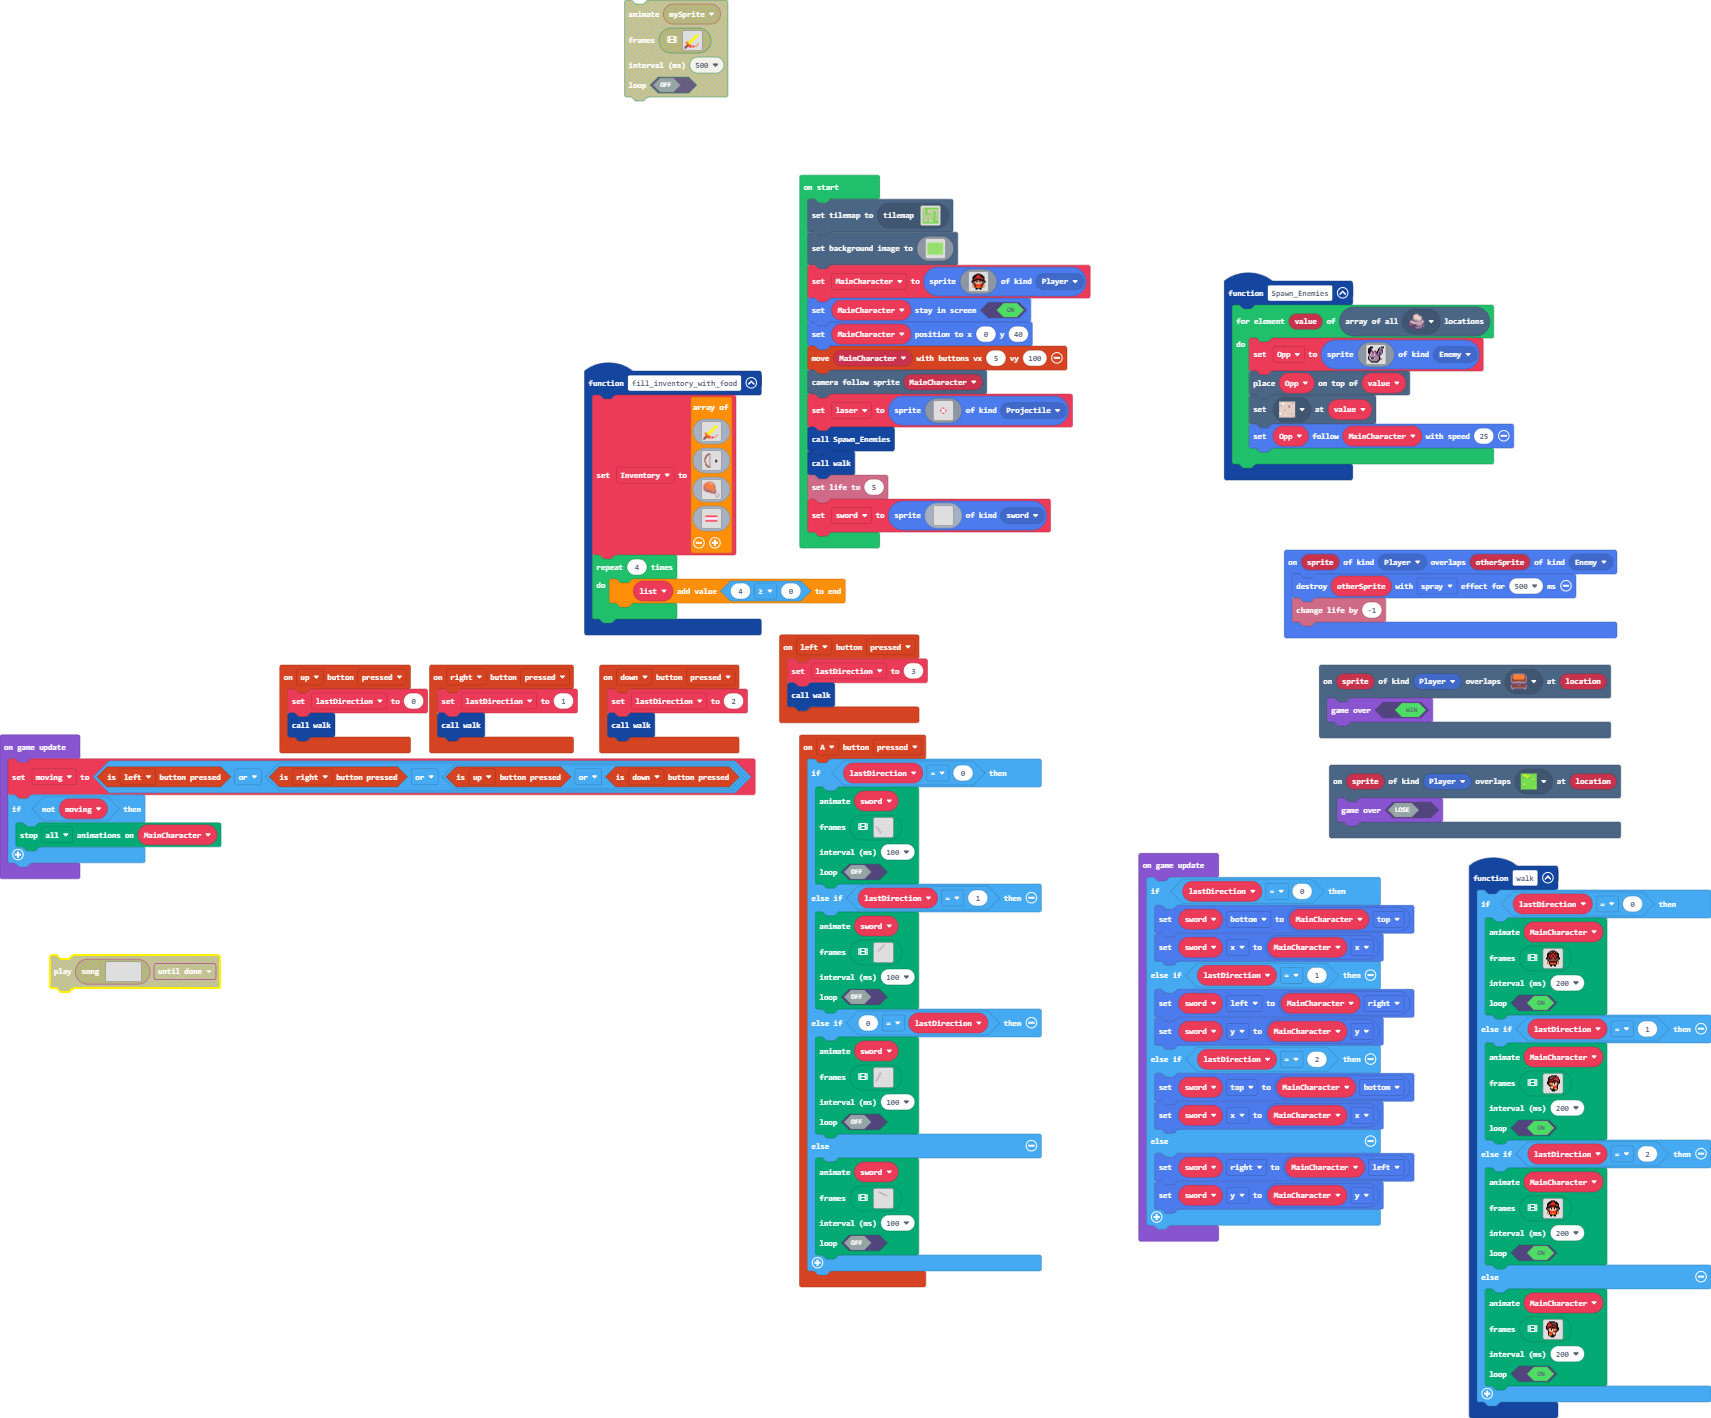
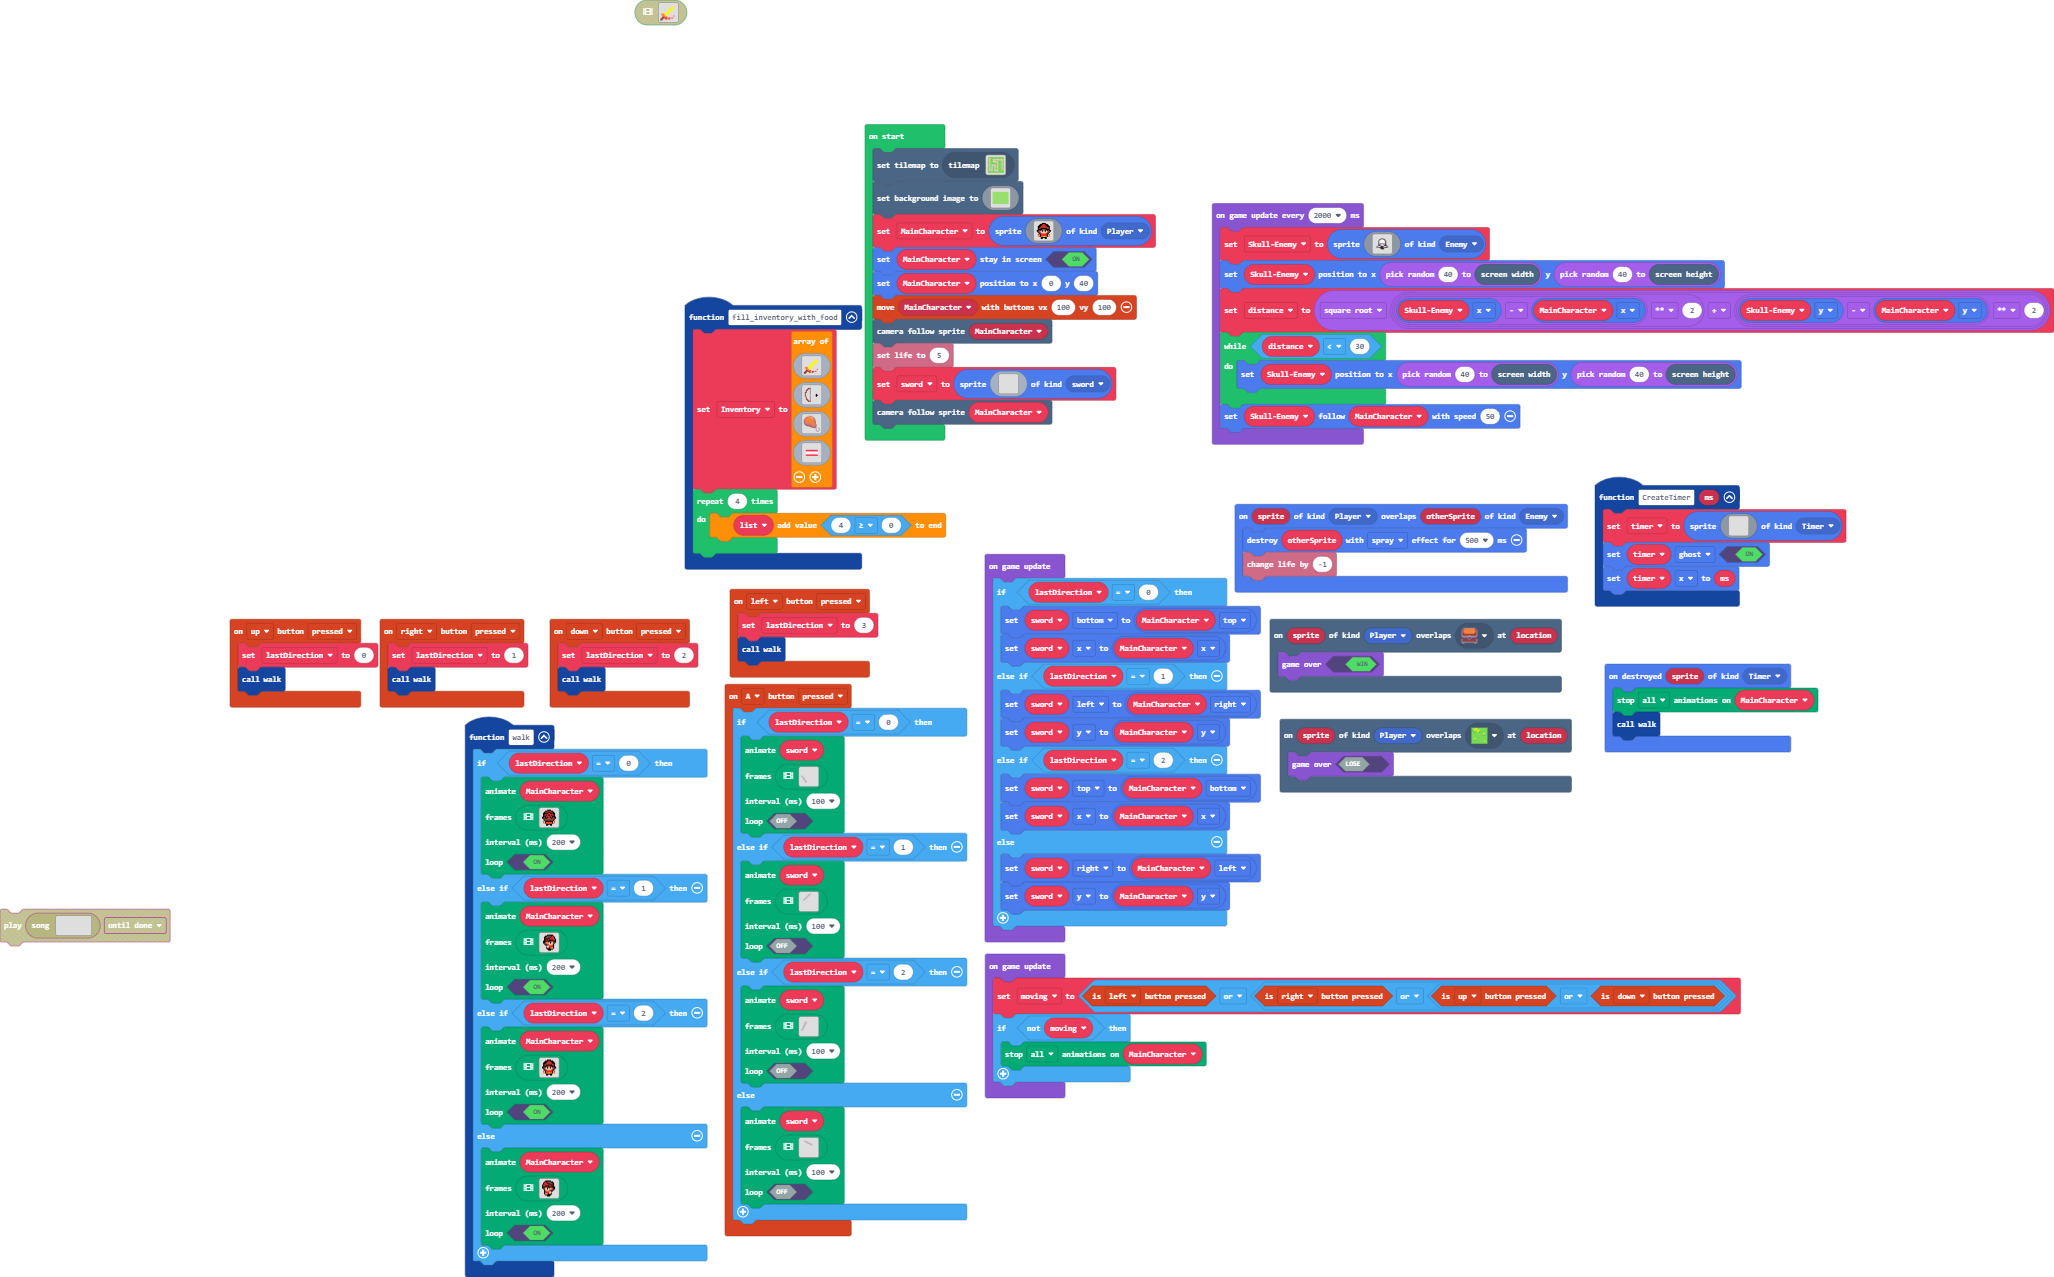
Added enemy spawnpoints

diff --git a/main.ts b/main.ts
@@ -5,35 +5,33 @@ enum ActionKind {
 }
 namespace SpriteKind {
     export const sword = SpriteKind.create()
+    export const Timer = SpriteKind.create()
 }
 controller.up.onEvent(ControllerButtonEvent.Pressed, function () {
     lastDirection = 0
     walk()
 })
-function Spawn_Enemies () {
-    for (let value of tiles.getTilesByType(sprites.castle.rock0)) {
-        Opp = sprites.create(img`
-            . . f f f . . . . . . . . f f f 
-            . f f c c . . . . . . f c b b c 
-            f f c c . . . . . . f c b b c . 
-            f c f c . . . . . . f b c c c . 
-            f f f c c . c c . f c b b c c . 
-            f f c 3 c c 3 c c f b c b b c . 
-            f f b 3 b c 3 b c f b c c b c . 
-            . c b b b b b b c b b c c c . . 
-            . c 1 b b b 1 b b c c c c . . . 
-            c b b b b b b b b b c c . . . . 
-            c b c b b b c b b b b f . . . . 
-            f b 1 f f f 1 b b b b f c . . . 
-            f b b b b b b b b b b f c c . . 
-            . f b b b b b b b b c f . . . . 
-            . . f b b b b b b c f . . . . . 
-            . . . f f f f f f f . . . . . . 
-            `, SpriteKind.Enemy)
-        tiles.placeOnTile(Opp, value)
-        tiles.setTileAt(value, sprites.castle.tilePath5)
-        Opp.follow(MainCharacter, 25)
-    }
+function CreateTimer (ms: number) {
+    timer = sprites.create(img`
+        . . . . . . . . . . . . . . . . 
+        . . . . . . . . . . . . . . . . 
+        . . . . . . . . . . . . . . . . 
+        . . . . . . . . . . . . . . . . 
+        . . . . . . . . . . . . . . . . 
+        . . . . . . . . . . . . . . . . 
+        . . . . . . . . . . . . . . . . 
+        . . . . . . . . . . . . . . . . 
+        . . . . . . . . . . . . . . . . 
+        . . . . . . . . . . . . . . . . 
+        . . . . . . . . . . . . . . . . 
+        . . . . . . . . . . . . . . . . 
+        . . . . . . . . . . . . . . . . 
+        . . . . . . . . . . . . . . . . 
+        . . . . . . . . . . . . . . . . 
+        . . . . . . . . . . . . . . . . 
+        `, SpriteKind.Timer)
+    timer.setFlag(SpriteFlag.Ghost, true)
+    timer.x = ms
 }
 controller.A.onEvent(ControllerButtonEvent.Pressed, function () {
     if (lastDirection == 0) {
@@ -152,7 +150,7 @@ controller.A.onEvent(ControllerButtonEvent.Pressed, function () {
         100,
         false
         )
-    } else if (0 == lastDirection) {
+    } else if (lastDirection == 2) {
         animation.runImageAnimation(
         sword,
         [img`
@@ -687,13 +685,19 @@ controller.down.onEvent(ControllerButtonEvent.Pressed, function () {
 scene.onOverlapTile(SpriteKind.Player, sprites.castle.tileGrass1, function (sprite, location) {
     game.gameOver(false)
 })
+sprites.onDestroyed(SpriteKind.Timer, function (sprite) {
+    animation.stopAnimation(animation.AnimationTypes.All, MainCharacter)
+    walk()
+})
 sprites.onOverlap(SpriteKind.Player, SpriteKind.Enemy, function (sprite, otherSprite) {
     sprites.destroy(otherSprite, effects.spray, 500)
     info.changeLifeBy(-1)
 })
+let distance = 0
+let SkullEnemy: Sprite = null
 let moving = false
 let Inventory: Image[] = []
-let Opp: Sprite = null
+let timer: Sprite = null
 let lastDirection = 0
 let sword: Sprite = null
 let MainCharacter: Sprite = null
@@ -840,28 +844,8 @@ MainCharacter = sprites.create(img`
     `, SpriteKind.Player)
 MainCharacter.setStayInScreen(true)
 MainCharacter.setPosition(0, 40)
-controller.moveSprite(MainCharacter, 5, 100)
+controller.moveSprite(MainCharacter, 100, 100)
 scene.cameraFollowSprite(MainCharacter)
-let laser = sprites.create(img`
-    . . . . . . . . . . . . . . . . 
-    . . . . . . . . . . . . . . . . 
-    . . . . . . . . . . . . . . . . 
-    . . . . . . . . . . . . . . . . 
-    . . . . . . . . . . . . . . . . 
-    . . . . . . . 2 2 . . . . . . . 
-    . . . . . . 3 1 1 3 . . . . . . 
-    . . . . . 2 1 1 1 1 2 . . . . . 
-    . . . . . 2 1 1 1 1 2 . . . . . 
-    . . . . . . 3 1 1 3 . . . . . . 
-    . . . . . . . 2 2 . . . . . . . 
-    . . . . . . . . . . . . . . . . 
-    . . . . . . . . . . . . . . . . 
-    . . . . . . . . . . . . . . . . 
-    . . . . . . . . . . . . . . . . 
-    . . . . . . . . . . . . . . . . 
-    `, SpriteKind.Projectile)
-Spawn_Enemies()
-walk()
 info.setLife(5)
 sword = sprites.create(img`
     . . . . . . . . . . . . . . . . 
@@ -881,12 +865,7 @@ sword = sprites.create(img`
     . . . . . . . . . . . . . . . . 
     . . . . . . . . . . . . . . . . 
     `, SpriteKind.sword)
-game.onUpdate(function () {
-    moving = controller.left.isPressed() || (controller.right.isPressed() || (controller.up.isPressed() || controller.down.isPressed()))
-    if (!(moving)) {
-        animation.stopAnimation(animation.AnimationTypes.All, MainCharacter)
-    }
-})
+scene.cameraFollowSprite(MainCharacter)
 game.onUpdate(function () {
     if (lastDirection == 0) {
         sword.bottom = MainCharacter.top
@@ -901,4 +880,44 @@ game.onUpdate(function () {
         sword.right = MainCharacter.left
         sword.y = MainCharacter.y
     }
+})
+game.onUpdate(function () {
+    moving = controller.left.isPressed() || (controller.right.isPressed() || (controller.up.isPressed() || controller.down.isPressed()))
+    if (!(moving)) {
+        animation.stopAnimation(animation.AnimationTypes.All, MainCharacter)
+    }
+})
+game.onUpdateInterval(2000, function () {
+    SkullEnemy = sprites.create(img`
+        ........................
+        ........................
+        ........................
+        ........................
+        ..........ffff..........
+        ........ff1111ff........
+        .......fb111111bf.......
+        .......f11111111f.......
+        ......fd11111111df......
+        ......fd11111111df......
+        ......fddd1111dddf......
+        ......fbdbfddfbdbf......
+        ......fcdcf11fcdcf......
+        .......fb111111bf.......
+        ......fffcdb1bdffff.....
+        ....fc111cbfbfc111cf....
+        ....f1b1b1ffff1b1b1f....
+        ....fbfbffffffbfbfbf....
+        .........ffffff.........
+        ...........fff..........
+        ........................
+        ........................
+        ........................
+        ........................
+        `, SpriteKind.Enemy)
+    SkullEnemy.setPosition(randint(40, scene.screenWidth()), randint(40, scene.screenHeight()))
+    distance = Math.sqrt((SkullEnemy.x - MainCharacter.x) ** 2 + (SkullEnemy.y - MainCharacter.y) ** 2)
+    while (distance < 30) {
+        SkullEnemy.setPosition(randint(40, scene.screenWidth()), randint(40, scene.screenHeight()))
+    }
+    SkullEnemy.follow(MainCharacter, 50)
 })
